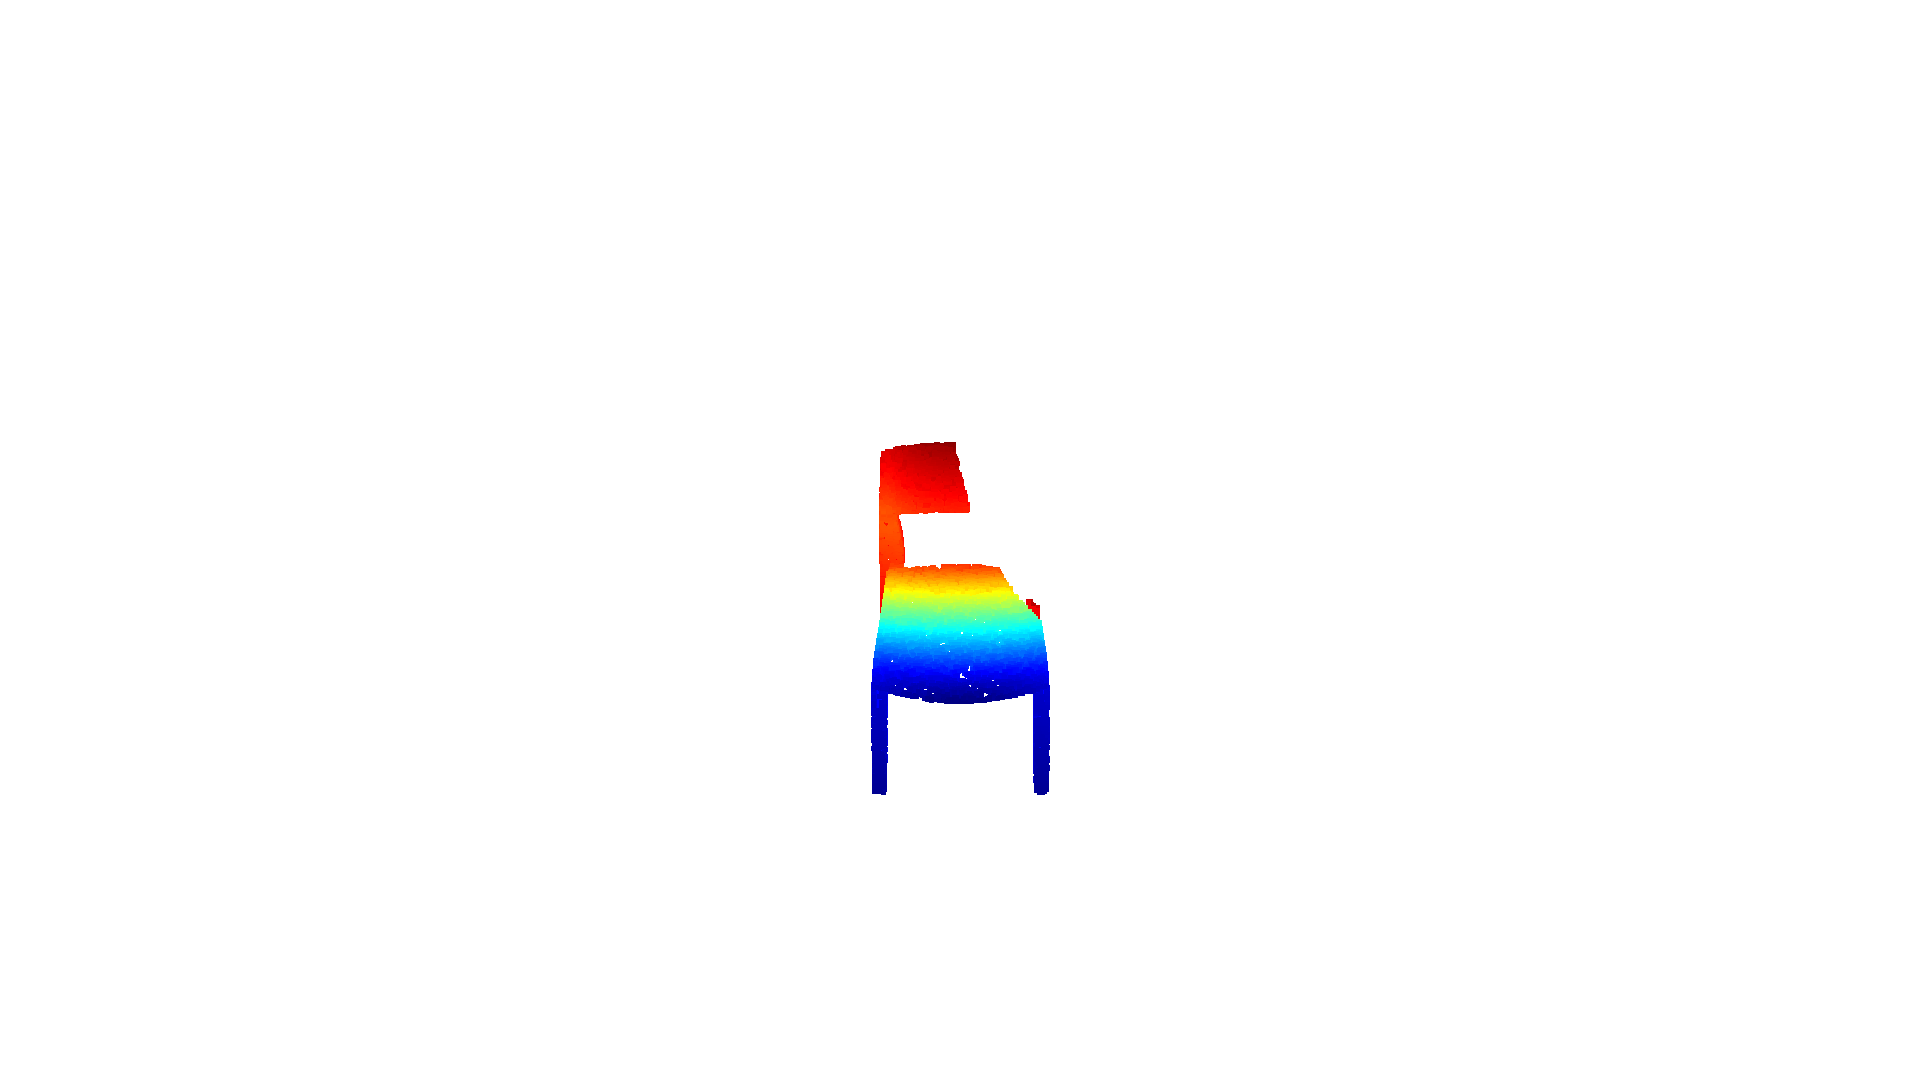
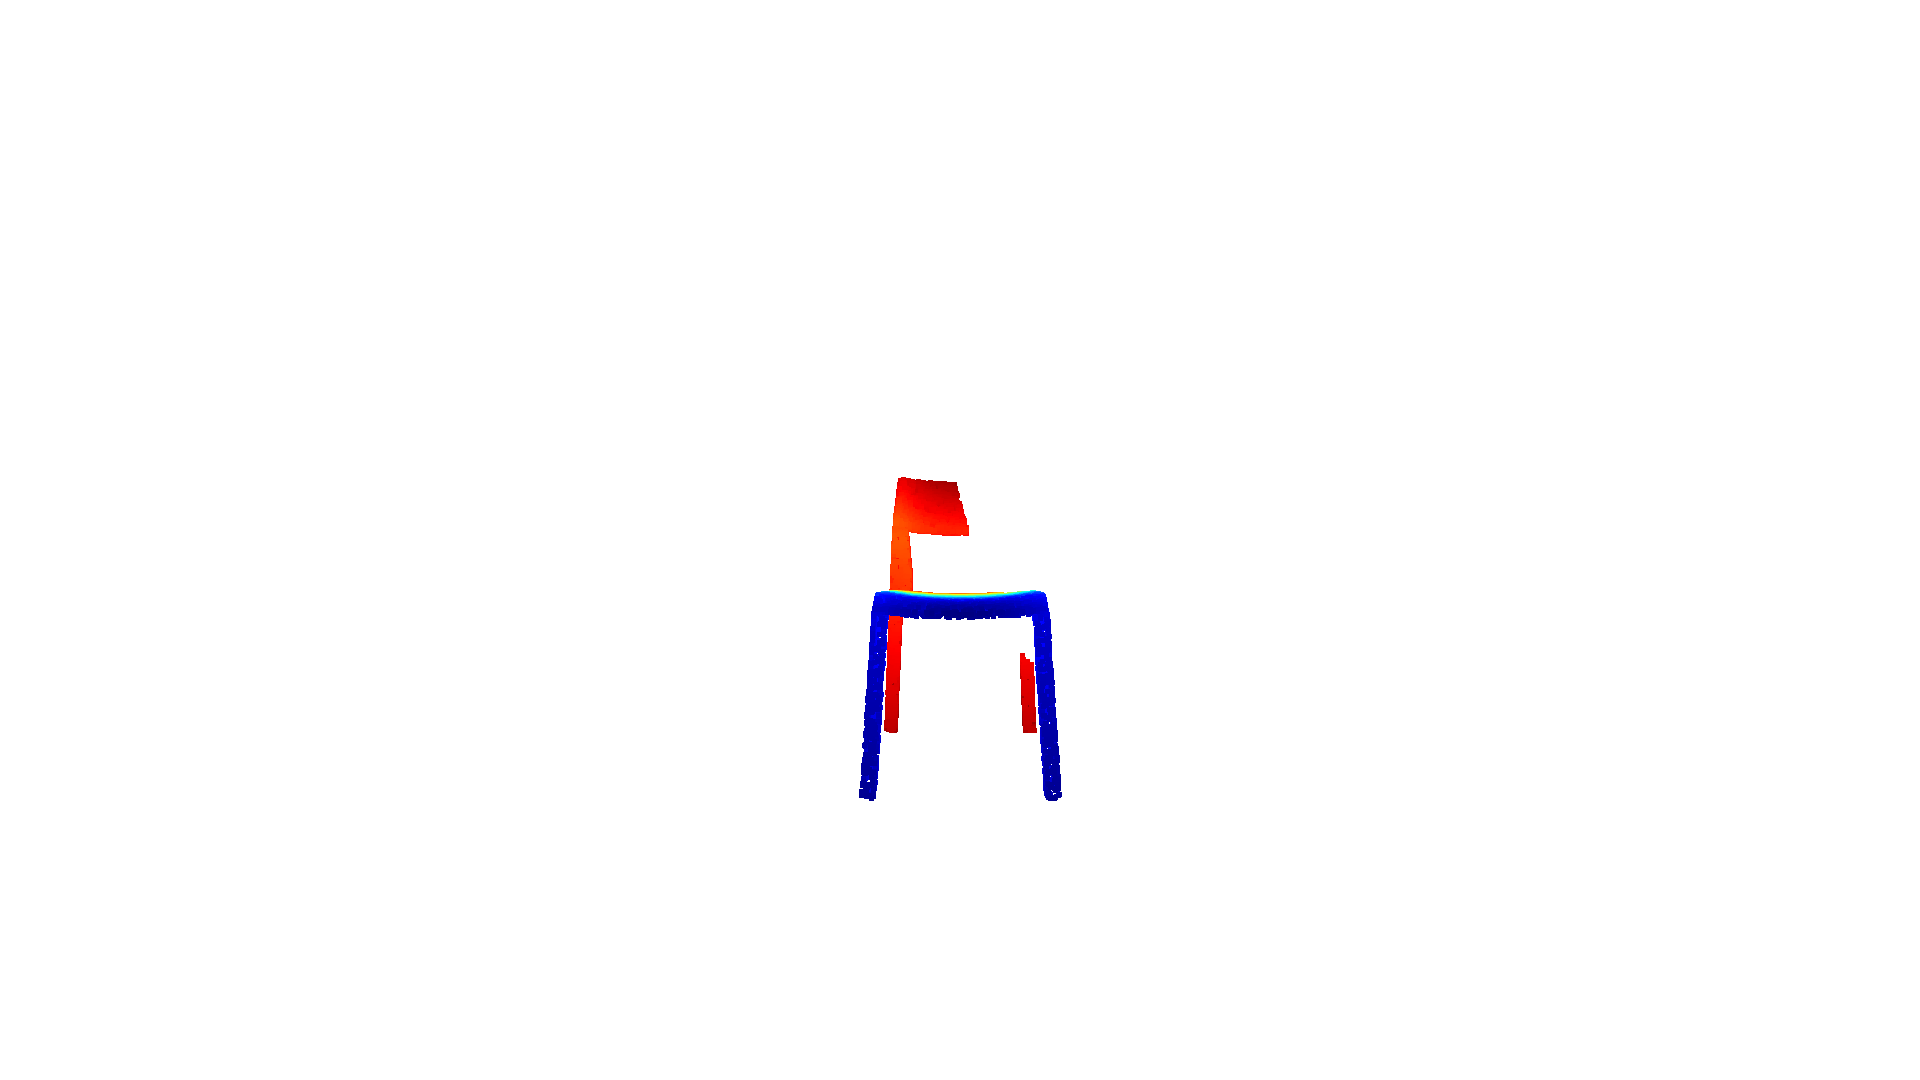
second commit

Changed region(s): [[0.4375, 0.3972, 0.5625, 0.7333]]

diff --git a/color_pc2img.py b/color_pc2img.py
@@ -1,0 +1,89 @@
+import open3d as o3d
+import numpy as np
+import matplotlib.pyplot as plt
+
+def connect_corners(min_values, max_values):
+    corners = []
+    for i in range(2):
+        for j in range(2):
+            for k in range(2):
+                corner = [min_values[0] + i * (max_values[0] - min_values[0]),
+                          min_values[1] + j * (max_values[1] - min_values[1]),
+                          min_values[2] + k * (max_values[2] - min_values[2])]
+                corners.append(corner)
+    return corners
+
+# npyファイルを読み込み
+point_cloud = np.load("./point_cloud/pcd.npy")
+
+# xyzにおける最大値と最小値を求める
+min_values = np.min(point_cloud, axis=0)
+max_values = np.max(point_cloud, axis=0)
+
+# 8つの角を連結する
+corners = connect_corners(min_values, max_values)
+
+pc = o3d.geometry.PointCloud()
+colors = np.tile([1, 1, 1], (8, 1))  # 赤色にする
+pc.points = o3d.utility.Vector3dVector(corners)
+pc.colors = o3d.utility.Vector3dVector(colors)
+
+
+# Loading point cloud data
+dir_path_pc = './point_cloud/'
+dir_path_img = './images/pc_images/'
+name1 = 'part1'
+name2 = 'part2'
+
+
+point_cloud_data1 = np.load(f'{dir_path_pc}{name1}.npy')
+colors1 = np.tile([1, 0, 0], (point_cloud_data1.shape[0], 1))  # 赤色にする
+# Create a PointCloud object
+point_cloud1 = o3d.geometry.PointCloud()
+point_cloud1.points = o3d.utility.Vector3dVector(point_cloud_data1)
+point_cloud1.colors = o3d.utility.Vector3dVector(colors1)
+
+
+point_cloud_data2 = np.load(f'{dir_path_pc}{name2}.npy')
+colors2 = np.tile([0, 0, 1], (point_cloud_data2.shape[0], 1))  # 赤色にする
+
+# Create a PointCloud object
+point_cloud2 = o3d.geometry.PointCloud()
+point_cloud2.points = o3d.utility.Vector3dVector(point_cloud_data2)
+point_cloud2.colors = o3d.utility.Vector3dVector(colors2)
+
+
+# Setting visualization parameters
+view_params = {
+    "zoom": 2,
+    "front": [0, 0, -1.0],
+    "lookat": [0.0, 0.0, 0.0],
+    "up": [0.0, 1.0, 0.0]
+}
+
+
+vis = o3d.visualization.Visualizer()
+vis.create_window(width=1920, height=1080,visible=False)
+vis.add_geometry(point_cloud1)
+vis.add_geometry(point_cloud2)
+vis.add_geometry(pc)
+
+ctr = vis.get_view_control()
+ctr.set_zoom(view_params["zoom"])
+ctr.set_front(view_params["front"])
+ctr.set_lookat(view_params["lookat"])
+ctr.set_up(view_params["up"])
+ctr.change_field_of_view(step=5)
+
+vis.update_geometry(point_cloud1)
+vis.update_geometry(point_cloud2)
+vis.update_geometry(pc)
+
+
+
+vis.poll_events()
+vis.update_renderer()
+
+vis.capture_screen_image(f'{dir_path_img}{name1}sem.png',do_render=True)
+vis.destroy_window()
+

diff --git a/test4vector.py b/test4vector.py
@@ -1,0 +1,33 @@
+import open3d as o3d
+import numpy as np
+
+# 例としてランダムな点群とランダムな色情報を生成する関数を定義
+def create_random_point_cloud_with_color(num_points):
+    points = np.random.rand(num_points, 3)  # 100個のランダムな点を生成
+    colors = np.random.rand(num_points, 4)  # RGBA色空間のランダムな色情報を生成
+    return points, colors
+
+def main():
+    num_points = 100  # 点の数
+
+    # ランダムな点群とランダムな色情報を生成
+    points, colors = create_random_point_cloud_with_color(num_points)
+
+    # Open3DのVector4dVectorを使用してRGBA色情報を持つ点群を作成
+    point_cloud = o3d.geometry.PointCloud()
+    point_cloud.points = o3d.utility.Vector3dVector(points)  # 点の座標を設定
+    point_cloud.colors = o3d.utility.Vector4dVector(colors)  # RGBA色情報を設定
+
+    # 3D表示ウィンドウの設定
+    vis = o3d.visualization.Visualizer()
+    vis.create_window()
+
+    # 3D表示ウィンドウに点群を追加
+    vis.add_geometry(point_cloud)
+
+    # 3D表示ウィンドウを更新
+    vis.run()
+    vis.destroy_window()
+
+if __name__ == "__main__":
+    main()

diff --git a/point2image.py b/point2image.py
@@ -6,8 +6,10 @@ import matplotlib.pyplot as plt
 
 
 # Loading point cloud data
-name = 'pcd'
-point_cloud_data = np.load(f'{name}.npy')
+dir_path_pc = './point_cloud/'
+dir_path_img = './images/pc_images/'
+name = 'part2'
+point_cloud_data = np.load(f'{dir_path_pc}{name}.npy')
 
 # Create a PointCloud object
 point_cloud = o3d.geometry.PointCloud()
@@ -15,7 +17,7 @@ point_cloud.points = o3d.utility.Vector3dVector(point_cloud_data)
 
 # Setting visualization parameters
 view_params = {
-    "zoom": 1.7,
+    "zoom": 1,
     "front": [0, 1.0, -1.0],
     "lookat": [0.0, 0.0, 0.0],
     "up": [0.0, 1.0, 0.0]
@@ -31,6 +33,8 @@ ctr.set_zoom(view_params["zoom"])
 ctr.set_front(view_params["front"])
 ctr.set_lookat(view_params["lookat"])
 ctr.set_up(view_params["up"])
+# ctr.set_constant_z_near(1.5)
+ctr.change_field_of_view(step=5)
 
 
 vis.update_geometry(point_cloud)
@@ -38,6 +42,6 @@ vis.update_geometry(point_cloud)
 vis.poll_events()
 vis.update_renderer()
 
-vis.capture_screen_image(f'{name}.png',do_render=True)
+vis.capture_screen_image(f'{dir_path_img}{name}.png',do_render=True)
 vis.destroy_window()
 

diff --git a/pinhol.py b/pinhol.py
@@ -1,0 +1,25 @@
+import numpy as np
+
+def connect_corners(min_values, max_values):
+    corners = []
+    for i in range(2):
+        for j in range(2):
+            for k in range(2):
+                corner = [min_values[0] + i * (max_values[0] - min_values[0]),
+                          min_values[1] + j * (max_values[1] - min_values[1]),
+                          min_values[2] + k * (max_values[2] - min_values[2])]
+                corners.append(corner)
+    return corners
+
+# npyファイルを読み込み
+point_cloud = np.load("./point_cloud/pcd.npy")
+
+# xyzにおける最大値と最小値を求める
+min_values = np.min(point_cloud, axis=0)
+max_values = np.max(point_cloud, axis=0)
+
+# 8つの角を連結する
+corners = connect_corners(min_values, max_values)
+
+# 結果の表示
+print("連結された8つの角:", corners)

diff --git a/2images.py b/2images.py
@@ -1,0 +1,27 @@
+import cv2
+import numpy as np
+
+# 2つの画像を読み込む
+image1 = cv2.imread("./images/sketch/canny_part1.png")
+image2 = cv2.imread("./images/sketch/canny_part2.png")
+image3 = cv2.imread("./images/sketch/canny_part2_all.png")
+
+# 画像のサイズを揃える（必要に応じて）
+# image2 = cv2.resize(image2, (image1.shape[1], image1.shape[0]))
+
+
+image1 = cv2.bitwise_not(image1)
+image2 = cv2.bitwise_not(image2)
+image3 = cv2.bitwise_not(image3)
+
+# 2つの画像のビットごとのAND演算を実行
+result = cv2.bitwise_and(image1, image3)
+result = cv2.bitwise_not(result)
+
+# 結果を保存する（任意）
+cv2.imwrite("./images/sketch/and_result.png", result)
+
+
+result = cv2.absdiff(image3, image1)
+result = cv2.bitwise_not(result)
+cv2.imwrite("./images/sketch/sub_result.png", result)

diff --git a/cannpyEdge.py b/cannpyEdge.py
@@ -1,21 +1,20 @@
 import cv2
 
-input_image = 'pcd.png'
+dir_path_input = './images/pc_images/'
+dir_path_output = './images/sketch/'
+
+input_image = 'part1.png'
 output_filename =  'canny_'+input_image
 
 # 画像を読み込む
-img = cv2.imread(input_image, 0)
+img = cv2.imread(dir_path_input+input_image, 0)
 
 # Cannyエッジ検出を適用
 edges = cv2.Canny(img, 100, 200)
-
 edges = cv2.bitwise_not(edges)
 
 
-# 結果を表示
-# cv2.imshow('Canny Edge Detection', edges)
-# cv2.waitKey(0)
-# cv2.destroyAllWindows()
 
+output_dir = dir_path_output+output_filename
 # 保存
-cv2.imwrite(output_filename, edges)
+cv2.imwrite(output_dir, edges)

diff --git a/show.py b/show.py
@@ -2,7 +2,9 @@ import open3d as o3d
 import numpy as np
 
 
-point_cloud_data = np.load('part1.npy')
+new_point = np.array([[0, 0, 0]])
+point_cloud_data = np.load('./point_cloud/part1.npy')
+point_cloud_data = np.concatenate((point_cloud_data, new_point), axis=0)
 print(point_cloud_data.shape)
 
 # Setting visualization parameters
